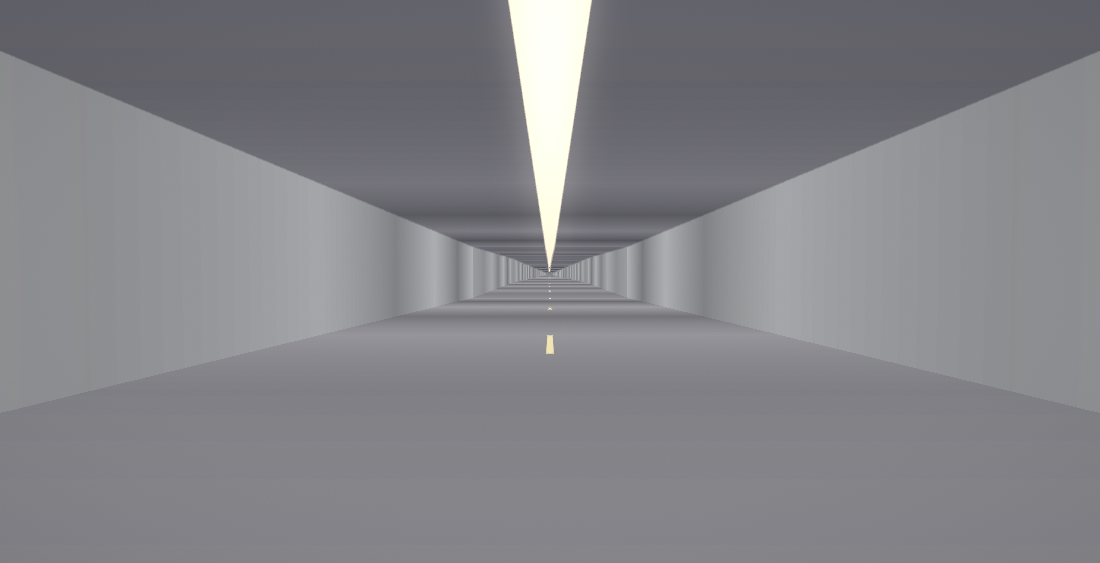
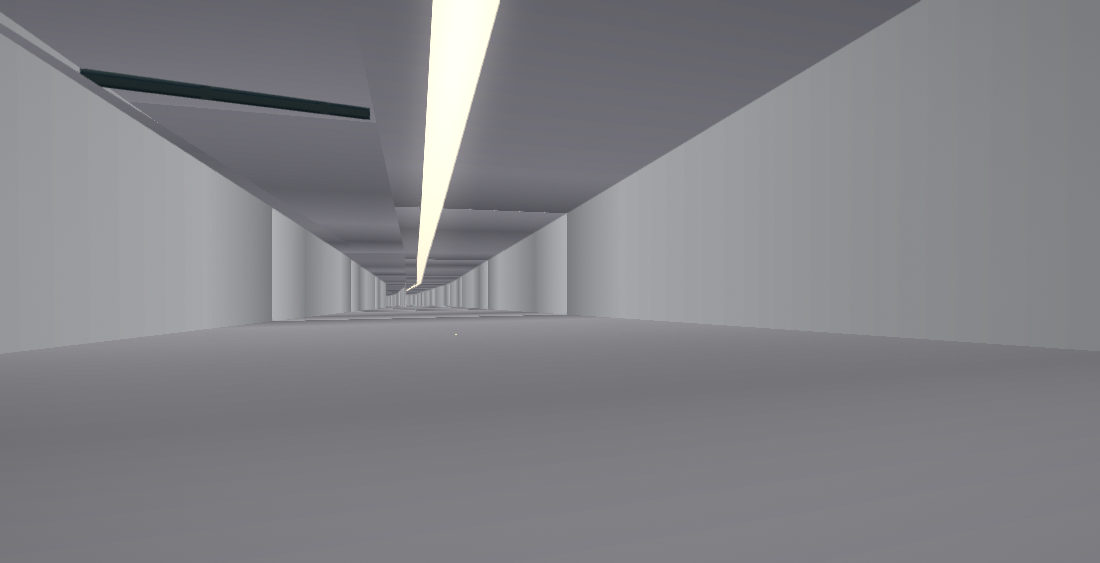
Auto v61: a tunnel portal is a CUT, not a box standing in a field
The north SR-99 portal was indefensible and the reason was structural: the
bore interpolated portal-to-portal over 3 km, so the first hundred metres
sat within a metre of grade -- and the closed box was drawn anyway. Walls
5.4 m high and a ceiling, on flat ground, with the approach road running
into the side of it. Nothing to drive into, because there was no hole.

Two fixes, and the second is the one that matters:

- The bore now DESCENDS AT 5.5 % from each portal, so it is genuinely
  under the hill within about 130 m instead of drifting down over a
  kilometre.
- Each 9 m segment asks the terrain whether it is covered, and draws
  itself accordingly: an OPEN CUT (retaining walls run from the deck up to
  the ground beside them, capped, lit, ordinary asphalt) where the sky is
  overhead, and the closed unlit bore only where the ground actually
  closes over it. The PORTAL FACE is drawn at that boundary -- where cover
  begins -- not at the graph's portal node, which is out in the daylight
  at the top of the ramp.

Measured, riding SR-99 portal to portal: worst step 8.21 m -> 2.04 m over
3059 m. Mount Baker 0.15 -> 0.99 m, still under a metre.

Honest residual: with the descent rule, bores whose portals are close
together in graph distance stay shallow and are therefore mostly drawn as
open cut. For SR-99 that means a chain of trenches and short covered
stretches rather than one deep bore -- which is what its many tunnel-tagged
[…]

Changed region(s): [[0.0, 0.0, 1.0, 0.5737], [0.68, 0.5737, 1.0, 0.6945], [0.4945, 0.6039, 0.5255, 0.6341]]

diff --git a/apps/auto/src/world.js b/apps/auto/src/world.js
@@ -995,75 +995,98 @@ export class World {
     const ay = a.y + DECK, by = b.y + DECK;
     const P = (t, o) => [lerp(a.x, b.x, t) + px * o, lerp(a.z, b.z, t) + pz * o];
     const Y = (t) => lerp(ay, by, t);
-    // The INTERIOR is drawn ENTIRELY in the unlit glow material, with its
-    // light baked into vertex colours: bright pools under the lamps fading
-    // between them, walls lighter than the ceiling, a warm strip overhead.
-    // MeshBasicMaterial owes the sun nothing, so the bore reads the same at
-    // any depth, which is what a lit tunnel does.
-    const pool = (t) => 0.72 + 0.28 * Math.cos((lerp(0, e.len, t) / 18) * Math.PI * 2);
+    const conc = [0.42, 0.43, 0.45];
+
+    // A BORE IS ONLY A BORE WHERE THE GROUND COVERS IT.
+    //
+    // Approaching a portal the road is in an open CUT -- retaining walls, sky
+    // overhead -- and the portal face is the wall of earth where the hill
+    // finally closes over the carriageway. Drawing the closed box the whole
+    // length put a lidded concrete tube standing on flat ground at the north
+    // SR-99 portal: no cut, no mouth, nothing to drive into. So each segment
+    // asks the terrain what it is.
     const seg = Math.max(2, Math.ceil(e.len / 9));
+    const covered = (t) => {
+      const [cx, cz] = P(t, 0);
+      return G.terrainHeight(cx, cz) - (Y(t) + WALL) > 0.4;
+    };
+
+    const pool = (t) => 0.72 + 0.28 * Math.cos((lerp(0, e.len, t) / 18) * Math.PI * 2);
     for (let i = 0; i < seg; i++) {
       const t0 = i / seg, t1 = (i + 1) / seg;
-      const l0 = pool(t0), l1 = pool(t1);
-      const deckC0 = [0.34 * l0, 0.34 * l0, 0.36 * l0];
-      const deckC1 = [0.34 * l1, 0.34 * l1, 0.36 * l1];
+      const tm = (t0 + t1) / 2;
+      const bur = covered(tm);
+      const l0 = bur ? pool(t0) : 1, l1 = bur ? pool(t1) : 1;
       const [a0x, a0z] = P(t0, hw), [a1x, a1z] = P(t0, -hw);
       const [b0x, b0z] = P(t1, hw), [b1x, b1z] = P(t1, -hw);
-      glow.quad([a0x, Y(t0), a0z], [a1x, Y(t0), a1z], [b1x, Y(t1), b1z], [b0x, Y(t1), b0z],
-        [0, 1, 0], ZERO_UV, [deckC0, deckC0, deckC1, deckC1]);
-      // centreline dash, every other segment
-      if (i % 2 === 0) {
-        const [c0x, c0z] = P(t0, 0.10), [c1x, c1z] = P(t0 + (t1 - t0) * 0.55, 0.10);
-        const [d0x, d0z] = P(t0, -0.10), [d1x, d1z] = P(t0 + (t1 - t0) * 0.55, -0.10);
-        glow.quad([c0x, Y(t0) + 0.02, c0z], [d0x, Y(t0) + 0.02, d0z],
-          [d1x, Y(t1) + 0.02, d1z], [c1x, Y(t1) + 0.02, c1z],
-          [0, 1, 0], ZERO_UV, [0.85, 0.8, 0.55]);
+
+      // Deck: unlit inside (the shadow map makes a bore black), ordinary road
+      // material in the open cut, where the sun genuinely reaches it.
+      if (bur) {
+        const d0 = [0.34 * l0, 0.34 * l0, 0.36 * l0], d1 = [0.34 * l1, 0.34 * l1, 0.36 * l1];
+        glow.quad([a0x, Y(t0), a0z], [a1x, Y(t0), a1z], [b1x, Y(t1), b1z], [b0x, Y(t1), b0z],
+          [0, 1, 0], ZERO_UV, [d0, d0, d1, d1]);
+        if (i % 2 === 0) {
+          const [c0x, c0z] = P(t0, 0.10), [c1x, c1z] = P(t0 + (t1 - t0) * 0.55, 0.10);
+          const [e0x, e0z] = P(t0, -0.10), [e1x, e1z] = P(t0 + (t1 - t0) * 0.55, -0.10);
+          glow.quad([c0x, Y(t0) + 0.02, c0z], [e0x, Y(t0) + 0.02, e0z],
+            [e1x, Y(t1) + 0.02, e1z], [c1x, Y(t1) + 0.02, c1z],
+            [0, 1, 0], ZERO_UV, [0.85, 0.8, 0.55]);
+        }
+      } else {
+        const u1 = (hw * 2) / ROAD_TILE, v0 = (t0 * e.len) / ROAD_TILE, v1 = (t1 * e.len) / ROAD_TILE;
+        road.quad([a0x, Y(t0), a0z], [a1x, Y(t0), a1z], [b1x, Y(t1), b1z], [b0x, Y(t1), b0z],
+          [0, 1, 0], [0, v0, u1, v0, u1, v1, 0, v1], [1, 1, 1]);
       }
+
       for (const sd of [1, -1]) {
         const [w0x, w0z] = P(t0, hw * sd), [w1x, w1z] = P(t1, hw * sd);
-        const wc0 = [0.42 * l0, 0.43 * l0, 0.45 * l0];
-        const wc1 = [0.42 * l1, 0.43 * l1, 0.45 * l1];
-        glow.quad(
-          [w0x, Y(t0), w0z], [w1x, Y(t1), w1z],
-          [w1x, Y(t1) + WALL, w1z], [w0x, Y(t0) + WALL, w0z],
-          [-px * sd, 0, -pz * sd], ZERO_UV, [wc0, wc1, wc1, wc0]);
+        if (bur) {
+          const c0 = [0.42 * l0, 0.43 * l0, 0.45 * l0], c1 = [0.42 * l1, 0.43 * l1, 0.45 * l1];
+          glow.quad([w0x, Y(t0), w0z], [w1x, Y(t1), w1z],
+            [w1x, Y(t1) + WALL, w1z], [w0x, Y(t0) + WALL, w0z],
+            [-px * sd, 0, -pz * sd], ZERO_UV, [c0, c1, c1, c0]);
+        } else {
+          // Open cut: the retaining wall runs from the deck up to the GROUND
+          // beside it, so the road sits in a trench instead of behind a free-
+          // standing slab. Lit, because the sky is right there.
+          const g0 = G.terrainHeight(w0x, w0z), g1 = G.terrainHeight(w1x, w1z);
+          const h0 = Math.max(1.2, g0 - Y(t0) + 0.5), h1 = Math.max(1.2, g1 - Y(t1) + 0.5);
+          flat.quad([w0x, Y(t0), w0z], [w1x, Y(t1), w1z],
+            [w1x, Y(t1) + h1, w1z], [w0x, Y(t0) + h0, w0z],
+            [-px * sd, 0, -pz * sd], ZERO_UV, conc);
+          // capping strip along the top, so the wall reads as a wall from above
+          flat.quad([w0x, Y(t0) + h0, w0z], [w1x, Y(t1) + h1, w1z],
+            [w1x + px * sd * 1.1, Y(t1) + h1, w1z + pz * sd * 1.1],
+            [w0x + px * sd * 1.1, Y(t0) + h0, w0z + pz * sd * 1.1],
+            [0, 1, 0], ZERO_UV, [0.48, 0.49, 0.51]);
+        }
       }
-      const cc0 = [0.20 * l0, 0.20 * l0, 0.22 * l0];
-      const cc1 = [0.20 * l1, 0.20 * l1, 0.22 * l1];
-      glow.quad([a0x, Y(t0) + WALL, a0z], [b0x, Y(t1) + WALL, b0z],
-        [b1x, Y(t1) + WALL, b1z], [a1x, Y(t0) + WALL, a1z],
-        [0, -1, 0], ZERO_UV, [cc0, cc1, cc1, cc0]);
-    }
-    // lamp strip down the centre
-    const g0 = P(0, 0), g1 = P(1, 0);
-    glow.quad(
-      [g0[0] - px * 0.5, Y(0) + WALL - 0.06, g0[1] - pz * 0.5],
-      [g0[0] + px * 0.5, Y(0) + WALL - 0.06, g0[1] + pz * 0.5],
-      [g1[0] + px * 0.5, Y(1) + WALL - 0.06, g1[1] + pz * 0.5],
-      [g1[0] - px * 0.5, Y(1) + WALL - 0.06, g1[1] - pz * 0.5],
-      [0, -1, 0], ZERO_UV, [1, 0.95, 0.8]);
 
-    // Portal treatment where an end meets the surface: an APPROACH TRENCH,
-    // not just a floating frame. Wing walls run from the frame back along the
-    // cut at grade height, so the mouth reads as a cut into the hill instead
-    // of a doorway standing in a field.
-    for (const [nd, t] of [[this.city.nodes[e.a], 0], [this.city.nodes[e.b], 1]]) {
-      if (!nd.e.some((ei2) => !this.city.edges[ei2].tunnel)) continue;
-      const [cx, cz] = P(t, 0);
-      const yb = t === 0 ? ay : by;
-      const rot = Math.atan2(e.dx, e.dz);
-      const conc = [0.42, 0.43, 0.45];
-      flat.box(cx, yb + WALL + 0.6, cz, hw * 2 + 3.6, 1.6, 1.5, rot, conc);
-      for (const sd of [1, -1]) {
-        flat.box(cx + px * (hw + 0.9) * sd, yb + WALL / 2, cz + pz * (hw + 0.9) * sd,
-          1.8, WALL + 1.2, 1.5, rot, conc);
-        // wing wall tapering back along the approach
-        const inward = t === 0 ? 1 : -1;
-        for (let k = 1; k <= 3; k++) {
-          const wx = cx - e.dx * inward * k * 9, wz = cz - e.dz * inward * k * 9;
-          const hgt = Math.max(1.2, (WALL + 1.0) * (1 - k * 0.28));
-          flat.box(wx + px * (hw + 0.7) * sd, yb + hgt / 2, wz + pz * (hw + 0.7) * sd,
-            1.4, hgt, 9.6, rot, conc);
+      if (bur) {
+        const cc0 = [0.20 * l0, 0.20 * l0, 0.22 * l0], cc1 = [0.20 * l1, 0.20 * l1, 0.22 * l1];
+        glow.quad([a0x, Y(t0) + WALL, a0z], [b0x, Y(t1) + WALL, b0z],
+          [b1x, Y(t1) + WALL, b1z], [a1x, Y(t0) + WALL, a1z],
+          [0, -1, 0], ZERO_UV, [cc0, cc1, cc1, cc0]);
+        glow.quad(
+          [P(t0, 0)[0] - px * 0.5, Y(t0) + WALL - 0.06, P(t0, 0)[1] - pz * 0.5],
+          [P(t0, 0)[0] + px * 0.5, Y(t0) + WALL - 0.06, P(t0, 0)[1] + pz * 0.5],
+          [P(t1, 0)[0] + px * 0.5, Y(t1) + WALL - 0.06, P(t1, 0)[1] + pz * 0.5],
+          [P(t1, 0)[0] - px * 0.5, Y(t1) + WALL - 0.06, P(t1, 0)[1] - pz * 0.5],
+          [0, -1, 0], ZERO_UV, [1, 0.95, 0.8]);
+      }
+
+      // THE PORTAL FACE is drawn where cover begins -- the boundary between an
+      // open segment and a buried one -- not at the graph's portal node, which
+      // is out in the daylight at the top of the ramp.
+      if (bur && i > 0 && !covered((t0 - 1 / seg / 2))) {
+        const [fx, fz] = P(t0, 0);
+        const fy = Y(t0);
+        const rot = Math.atan2(e.dx, e.dz);
+        flat.box(fx, fy + WALL + 0.7, fz, hw * 2 + 4.0, 1.8, 1.6, rot, conc);
+        for (const sd of [1, -1]) {
+          flat.box(fx + px * (hw + 1.0) * sd, fy + WALL / 2, fz + pz * (hw + 1.0) * sd,
+            2.0, WALL + 1.6, 1.6, rot, conc);
         }
       }
     }

diff --git a/apps/auto/src/citygen.js b/apps/auto/src/citygen.js
@@ -382,7 +382,7 @@ export function* cityGenerator(md) {
   // breaks the surface mid-hill. Near a portal the clearance requirement is
   // relaxed over RELAX metres, because the ground there IS the portal cut.
   {
-    const CLEAR = 7, RELAX = 60;
+    const CLEAR = 7;
     const tunNodes = new Set();
     for (const e of g.edges) if (e.tunnel && !e.elev) { tunNodes.add(e.a); tunNodes.add(e.b); }
     const portals = new Set();
@@ -432,10 +432,19 @@ export function* cityGenerator(md) {
       } else {
         continue;                            // isolated fragment: leave as-is
       }
+      // DESCEND AT A REAL GRADE FROM THE PORTAL. Interpolating portal-to-
+      // portal over a 3 km bore leaves the first 100 m within a metre of grade,
+      // so the tunnel's walls and ceiling were drawn standing on flat ground --
+      // a concrete box in the open, which is what the north SR-99 portal was.
+      // 5.5 % gets under the hill in about 130 m, which is both drivable and
+      // what a real portal approach does.
       const dPortal = b2.length ? b2[0].d : 1e9;
-      const relax = clamp(dPortal / RELAX, 0, 1);
-      const cap = n.y - CLEAR * relax;       // n.y is the reheighted terrain
-      const yFinal = Math.min(y, cap);
+      const portalY = b2.length ? g.nodes[b2[0].p].y : n.y;
+      let yFinal = Math.min(y, portalY - 0.055 * dPortal);
+      // Past the approach, never break the surface mid-hill. Inside it, the
+      // GEOMETRY decides: world.js draws an open cut until the ground closes
+      // over the bore, so there is nothing to clamp here.
+      if (dPortal > 80) yFinal = Math.min(yFinal, n.y - CLEAR);
       if (n.y - yFinal > worstDrop) worstDrop = n.y - yFinal;
       n.y = yFinal;
       n.tunnel = true;

diff --git a/apps/auto/sw.js b/apps/auto/sw.js
@@ -23,7 +23,7 @@
 // launch to prove it hadn't changed, and PINNED is wrong too: these URLs carry
 // no version, so a bump has to be able to replace them. The map only changes
 // when tools/ re-imports it, and that comes with a bump.
-const CACHE = 'auto-v60';
+const CACHE = 'auto-v61';
 const PINNED = ['vendor/three-0.160.0.module.js'];
 const isMapData = (url) => new URL(url).pathname.includes('/apps/auto/data/');
 const SHELL = ['./', './index.html', './manifest.webmanifest',

diff --git a/apps/auto/index.html b/apps/auto/index.html
@@ -414,7 +414,7 @@
     <div id="loadTrack"><div id="loadBar"></div></div>
     <div id="loadMsg">Starting up</div>
     <!-- Bumped once per change, in step with CACHE in sw.js. See CLAUDE.md. -->
-    <div id="build">v60</div>
+    <div id="build">v61</div>
     <div id="attrib">Map data © OpenStreetMap contributors (ODbL) · elevation USGS 3DEP</div>
   </div>
 
